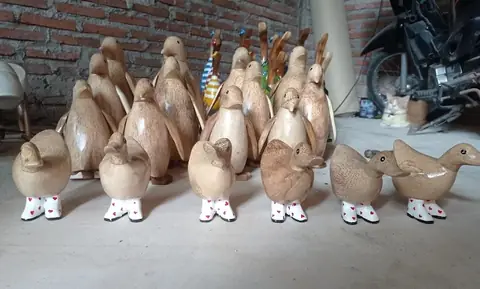
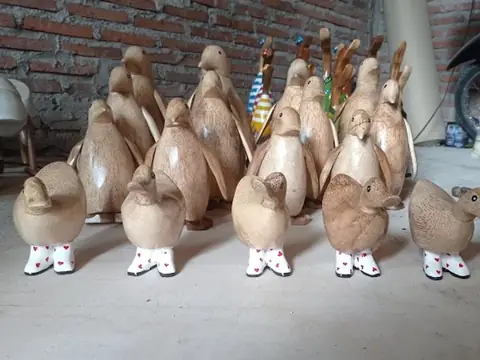
Crop holiday photos to their subjects; guard empty card specs
The raw WhatsApp shots put subjects low in tall frames, so the 4:3 card
crop showed brick walls (Arga caught it on his phone). Photos are now
attention-cropped to the card ratio, with one manual crop where the
saliency picked the background. Cards also stop printing 0.000 m3 and
null/40HC for items without volume data.

diff --git a/site/tools/images.js b/site/tools/images.js
@@ -12,18 +12,18 @@ const PDF = (list, n) => path.join(SRC, 'pdf-images', String(list), `p${list}-${
 // name -> { src, widths, crop? }
 const photos = {
   // holiday decor (Arga, Sep 2026)
-  'hd-004': { src: path.join(SRC, 'ideas', 'christmas-2026', 'WhatsApp Image 2026-09-25 at 05.46.10 (1).jpeg'), widths: [480, 960] },
-  'hd-005': { src: path.join(SRC, 'ideas', 'christmas-2026', 'WhatsApp Image 2026-09-25 at 05.46.09.jpeg'), widths: [480, 960] },
-  'hd-006': { src: path.join(SRC, 'ideas', 'christmas-2026', 'WhatsApp Image 2026-09-25 at 05.46.11.jpeg'), widths: [480, 960] },
-  'hd-007': { src: path.join(SRC, 'ideas', 'christmas-2026', 'WhatsApp Image 2026-09-25 at 05.46.10 (2).jpeg'), widths: [480, 960] },
-  'hd-009': { src: path.join(SRC, 'ideas', 'christmas-2026', 'WhatsApp Image 2026-09-25 at 05.46.09 (1).jpeg'), widths: [480, 960] },
-  'hd-010': { src: path.join(SRC, 'ideas', 'christmas-2026', 'WhatsApp Image 2026-09-25 at 05.46.10.jpeg'), widths: [480, 960] },
-  'hd-011': { src: path.join(SRC, 'ideas', 'christmas-2026', 'WhatsApp Image 2026-09-25 at 05.49.28.jpeg'), widths: [480, 960] },
-  'hd-012': { src: path.join(SRC, 'ideas', 'christmas-2026', 'WhatsApp Image 2026-09-25 at 05.49.28 (1).jpeg'), widths: [480, 960] },
-  'hd-013': { src: path.join(SRC, 'ideas', 'christmas-2026', 'WhatsApp Image 2026-09-25 at 05.49.27.jpeg'), widths: [480, 960] },
-  'hd-014': { src: path.join(SRC, 'ideas', 'christmas-2026', 'WhatsApp Image 2026-09-25 at 05.49.28 (2).jpeg'), widths: [480, 960] },
-  'hd-015': { src: path.join(SRC, 'ideas', 'christmas-2026', 'WhatsApp Image 2026-09-25 at 05.49.29.jpeg'), widths: [480, 960] },
-  'hd-018': { src: path.join(SRC, 'ideas', 'christmas-2026', 'WhatsApp Image 2026-09-25 at 05.52.33.jpeg'), widths: [480, 960] },
+  'hd-004': { src: path.join(SRC, 'ideas', 'christmas-2026', 'cropped', 'hd-004.jpeg'), widths: [480, 960] },
+  'hd-005': { src: path.join(SRC, 'ideas', 'christmas-2026', 'cropped', 'hd-005.jpeg'), widths: [480, 960] },
+  'hd-006': { src: path.join(SRC, 'ideas', 'christmas-2026', 'cropped', 'hd-006.jpeg'), widths: [480, 960] },
+  'hd-007': { src: path.join(SRC, 'ideas', 'christmas-2026', 'cropped', 'hd-007.jpeg'), widths: [480, 960] },
+  'hd-009': { src: path.join(SRC, 'ideas', 'christmas-2026', 'cropped', 'hd-009.jpeg'), widths: [480, 960] },
+  'hd-010': { src: path.join(SRC, 'ideas', 'christmas-2026', 'cropped', 'hd-010.jpeg'), widths: [480, 960] },
+  'hd-011': { src: path.join(SRC, 'ideas', 'christmas-2026', 'cropped', 'hd-011.jpeg'), widths: [480, 960] },
+  'hd-012': { src: path.join(SRC, 'ideas', 'christmas-2026', 'cropped', 'hd-012.jpeg'), widths: [480, 960] },
+  'hd-013': { src: path.join(SRC, 'ideas', 'christmas-2026', 'cropped', 'hd-013.jpeg'), widths: [480, 960] },
+  'hd-014': { src: path.join(SRC, 'ideas', 'christmas-2026', 'cropped', 'hd-014.jpeg'), widths: [480, 960] },
+  'hd-015': { src: path.join(SRC, 'ideas', 'christmas-2026', 'cropped', 'hd-015.jpeg'), widths: [480, 960] },
+  'hd-018': { src: path.join(SRC, 'ideas', 'christmas-2026', 'cropped', 'hd-018.jpeg'), widths: [480, 960] },
   // hero + workshops (large)
   'hero': { src: WA('07.49.34'), widths: [640, 1200, 1600] },
   'ws-weaving': { src: WA('07.49'), widths: [480, 960, 1200] },

diff --git a/site/src/templates.js b/site/src/templates.js
@@ -161,7 +161,7 @@ function productCard(p, { site, manifest, catalog, L, base }) {
     <span class="sku">${esc(p.sku)}</span>
     <h3><a href="${href}">${esc(p.name)}</a></h3>
     <p class="spec">${esc(spec)}</p>
-    ${dims ? `<p class="dims">${esc(dims)} · ${num(L, p.cbm, 3)} m³ · ${p.per40hc}${L.card.per40}</p>` : ''}
+    ${dims ? `<p class="dims">${esc(dims)}${p.cbm ? ` · ${num(L, p.cbm, 3)} m³` : ''}${p.per40hc ? ` · ${p.per40hc}${L.card.per40}` : ''}</p>` : ''}
     <div class="foot">${price}<button class="btn btn-secondary btn-sm" type="button" data-add="${esc(p.sku)}">${L.card.add}</button></div>
   </div>
 </article>`;
